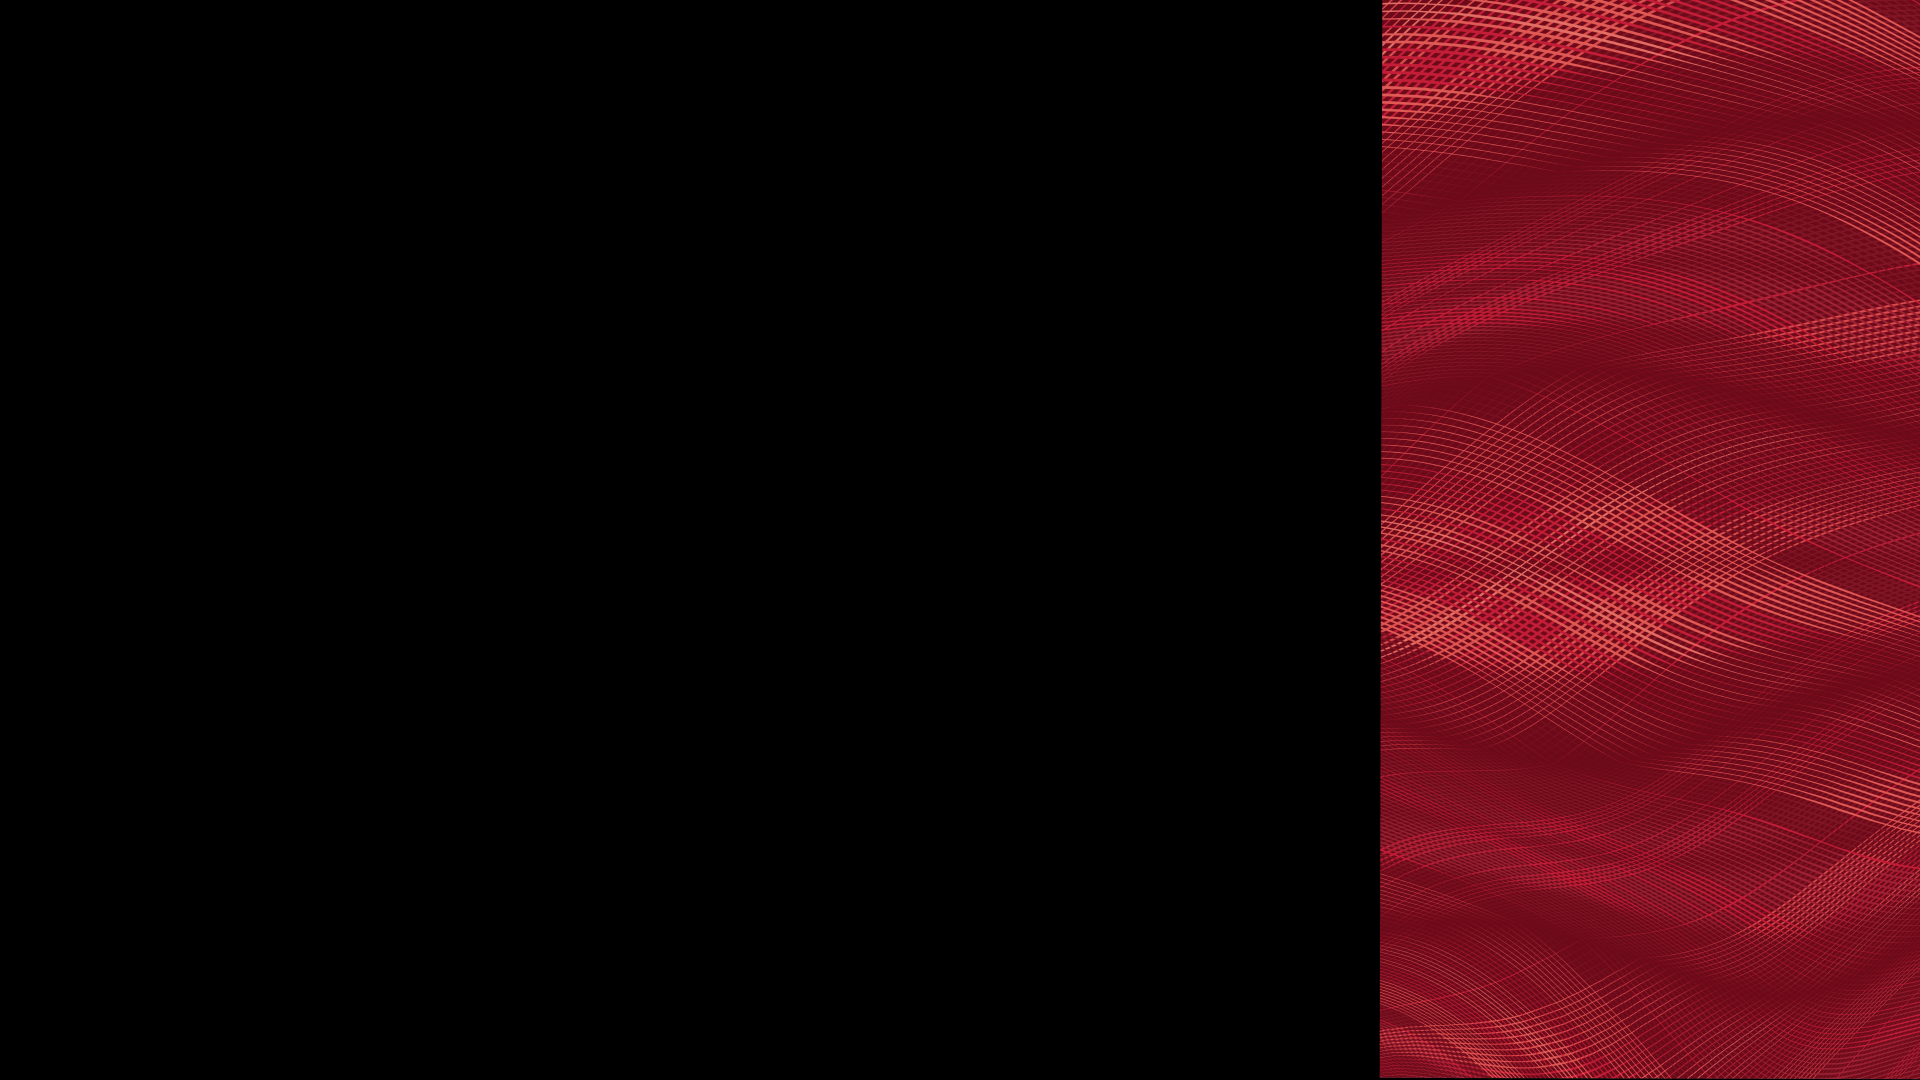
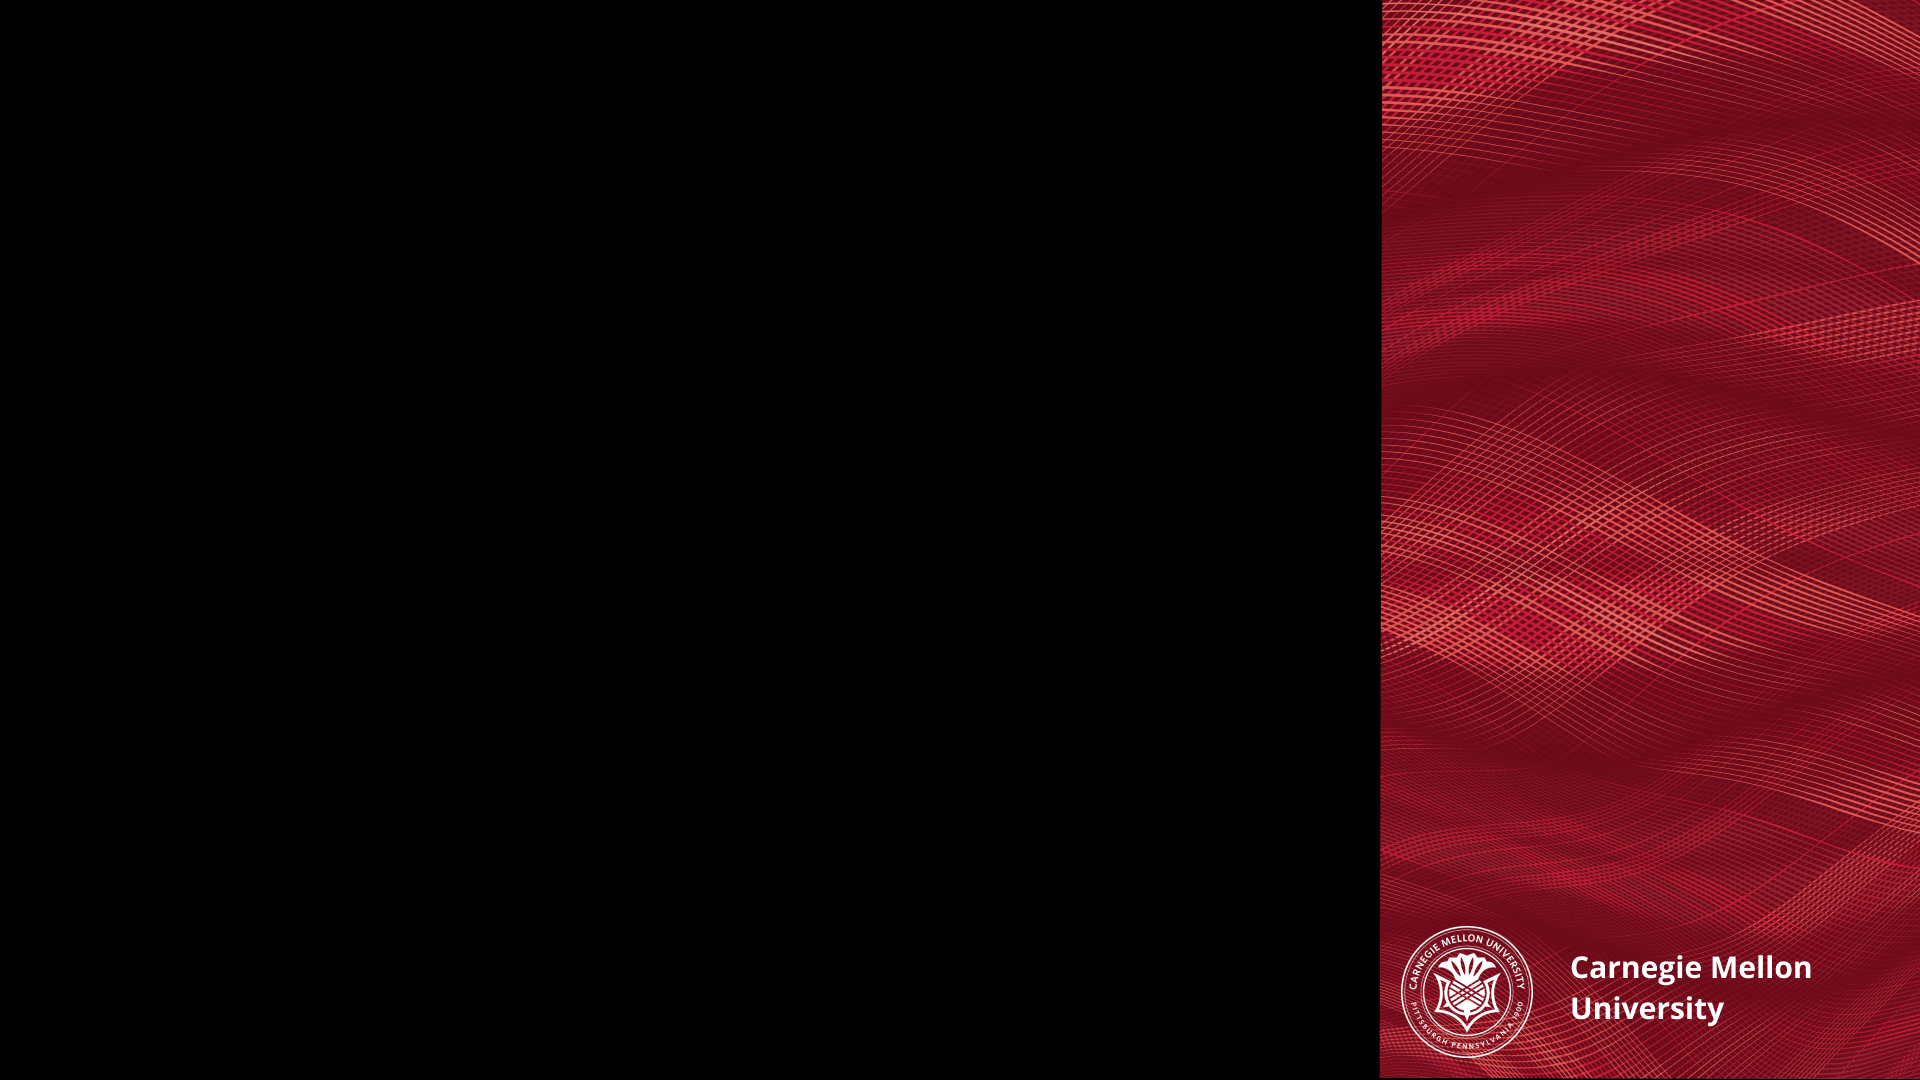
feat: caption variant, and stop drawing a wordmark the frame now prints
The replacement pip-frame.png keeps the same regions (slide x 0..1379, rail
x 1380..1919) but now has the CMU seal and wordmark printed into the rail at
y 926..1057. rail_overlay was still drawing its own serif wordmark in that
corner, so the two stacked on top of each other. The drawn layer now stops at
the term (y 654) and leaves everything below to the art.

render_caption_variant.py is the professional look with the question shown as a
YouTube-style caption over the running lecture instead of a full-frame card,
and with no sting. Measured across the 645.6s question: -91.0 dB (true silence,
the student's own muted audio) against -32.0 dB in the card version.

The caption sits over the slide region only -- centring on the full frame would
push it under the branded rail, which is opaque art. The slab is 78% alpha:
dark enough to carry white type over a bright slide, light enough that the
slide still reads. Fully opaque would just be a card again.

Changed region(s): [[0.7188, 0.8556, 0.9375, 0.9778]]

diff --git a/scripts/render_caption_variant.py b/scripts/render_caption_variant.py
@@ -1,0 +1,170 @@
+"""Professional variant: YouTube-style caption instead of a full-frame card.
+
+    python scripts/render_caption_variant.py
+
+Writes data/<lecture>/<key>-professional-captions.mp4.
+
+Differences from the card version, both requested:
+  * a student question appears as a caption overlaid on the running lecture,
+    so the slide and the instructor stay visible through it
+  * no card sting -- the lecture's own (student-muted) audio is untouched
+
+Reuses the cached layout segments from .full-work and re-renders only the
+question spans, since only those change. Type is Open Sans, matching the cards.
+"""
+
+import argparse
+import json
+import os
+import subprocess
+import sys
+
+from PIL import Image, ImageDraw
+
+sys.path.insert(0, os.path.dirname(os.path.abspath(__file__)))
+sys.path.insert(0, os.path.dirname(os.path.dirname(os.path.abspath(__file__))))
+
+from render_full_lecture import (  # noqa: E402
+    plan, layout_segment, probe_dur, run, encoder, vcodec,
+)
+from render_demo import (  # noqa: E402
+    FPS, ASSETS, build_intro_pro, rail_overlay, SLIDE_W, SLIDE_Y, SLIDE_H,
+    CAM_X, CAM_Y, CAM_W, CAM_H,
+)
+from render_theme_samples import THEMES, ROOT, W, H, font, fit_block, wrap  # noqa: E402
+
+# The caption sits over the SLIDE region only. Centring it on the full frame
+# would push it under the branded rail, which is opaque art.
+CAP_CX = SLIDE_W // 2
+CAP_MAX_W = 1120
+CAP_PAD_X, CAP_PAD_Y = 34, 22
+CAP_SIZE = 46
+CAP_LEADING = 1.34
+CAP_CY = H // 2            # "in the middle", as asked
+
+
+def caption_png(text, out_path):
+    """A YouTube-style caption: translucent slab, white Open Sans, centred.
+
+    Drawn as RGBA and composited over the running video, so unlike the card it
+    never replaces the picture.
+    """
+    lay = Image.new("RGBA", (W, H), (0, 0, 0, 0))
+    d = ImageDraw.Draw(lay)
+    fnt = font("SemiBold", CAP_SIZE)
+    lines = wrap(d, text, fnt, CAP_MAX_W)
+    lead = int(CAP_SIZE * CAP_LEADING)
+
+    tw = max(d.textlength(ln, font=fnt) for ln in lines)
+    th = len(lines) * lead
+    x0 = CAP_CX - tw / 2 - CAP_PAD_X
+    x1 = CAP_CX + tw / 2 + CAP_PAD_X
+    y0 = CAP_CY - th / 2 - CAP_PAD_Y
+    y1 = CAP_CY + th / 2 + CAP_PAD_Y
+
+    # 0.78 alpha: dark enough to carry white type over a bright slide, light
+    # enough that the slide underneath still reads. Fully opaque would just be
+    # a card again.
+    d.rounded_rectangle([x0, y0, x1, y1], radius=14, fill=(0, 0, 0, 199))
+
+    y = CAP_CY - th / 2
+    for ln in lines:
+        lw = d.textlength(ln, font=fnt)
+        d.text((CAP_CX - lw / 2, y), ln, font=fnt, fill=(255, 255, 255, 255))
+        y += lead
+    lay.save(out_path)
+    return out_path
+
+
+def caption_segment(out, start, dur, text, lecture_dir, work, backdrop_png):
+    """A layout segment with the caption faded in over it. No sting."""
+    screen = os.path.join(lecture_dir, "screen_sync.mp4")
+    cam = os.path.join(lecture_dir, "camera_muted_anon_tracked.mp4")
+    cap = caption_png(text, os.path.join(work, f"cap-{int(start)}.png"))
+    fade = min(0.35, dur / 5)
+
+    fc = (
+        f"[0:v]scale={SLIDE_W}:{SLIDE_H},setsar=1,fps={FPS}[sl];"
+        f"[1:v]scale={CAM_W}:{CAM_H},setsar=1,fps={FPS}[cm];"
+        f"[2:v][sl]overlay=0:{SLIDE_Y}:shortest=1[a];"
+        f"[a][cm]overlay={CAM_X}:{CAM_Y}[b];"
+        # -loop 1 on the caption input: a still image is one frame at t=0, so a
+        # fade would otherwise never evaluate and the overlay stay invisible.
+        f"[3:v]format=rgba,fade=t=in:st=0:d={fade:.2f}:alpha=1,"
+        f"fade=t=out:st={dur - fade:.2f}:d={fade:.2f}:alpha=1[cap];"
+        f"[b][cap]overlay=0:0:format=auto,format=yuv420p[v]"
+    )
+    run(["ffmpeg", "-y", "-v", "error",
+         "-ss", f"{start:.3f}", "-t", f"{dur:.3f}", "-i", screen,
+         "-ss", f"{start:.3f}", "-t", f"{dur:.3f}", "-i", cam,
+         "-loop", "1", "-t", f"{dur:.3f}", "-i", backdrop_png,
+         "-loop", "1", "-framerate", str(FPS), "-t", f"{dur:.3f}", "-i", cap,
+         "-filter_complex", fc, "-map", "[v]", "-map", "1:a",
+         *vcodec(), "-c:a", "aac", "-ar", "48000", "-ac", "2",
+         "-t", f"{dur:.3f}", out])
+    return out
+
+
+def main():
+    ap = argparse.ArgumentParser()
+    ap.add_argument("--lecture-dir", default="data/15210-lecture12")
+    ap.add_argument("--encoder", default="libx264")
+    args = ap.parse_args()
+    encoder(args.encoder)
+
+    work = os.path.join(ROOT, ".full-work")
+    os.makedirs(work, exist_ok=True)
+    LD = args.lecture_dir
+    dur = probe_dur(os.path.join(LD, "camera_muted_anon_tracked.mp4"))
+    qs = [{"start": s["start"], "end": s["end"], "text": s["text"].strip()}
+          for s in json.load(open(os.path.join(LD, "transcript_classified.json")))
+          if s.get("is_student_question")]
+    pieces = plan(qs, dur)
+
+    bd = Image.open(os.path.join(ASSETS, "professional", "pip-frame.png")).convert("RGBA")
+    bd = Image.alpha_composite(bd, rail_overlay("professional", THEMES["professional"]))
+    backdrop = os.path.join(work, "backdrop.png")
+    bd.convert("RGB").save(backdrop)
+
+    outs = []
+    for i, p in enumerate(pieces):
+        cached = os.path.join(work, f"v2_{i:03d}.mp4")
+        o = os.path.join(work, f"cap_{i:03d}.mp4")
+        if p["kind"] == "layout" and os.path.exists(cached):
+            outs.append(cached)                      # unchanged, reuse
+            print(f"  seg {i+1}/{len(pieces)} layout  {p['dur']:7.1f}s  (cached)",
+                  flush=True)
+        elif p["kind"] == "layout":
+            layout_segment("professional", o, p["start"], p["dur"], LD, backdrop)
+            outs.append(o)
+            print(f"  seg {i+1}/{len(pieces)} layout  {p['dur']:7.1f}s", flush=True)
+        else:
+            caption_segment(o, p["start"], p["dur"], p["q"]["text"], LD, work,
+                            backdrop)
+            outs.append(o)
+            print(f"  seg {i+1}/{len(pieces)} caption {p['dur']:7.1f}s  "
+                  f"\"{p['q']['text'][:48]}\"", flush=True)
+
+    lst = os.path.join(work, "body_cap.txt")
+    with open(lst, "w") as f:
+        for o in outs:
+            f.write(f"file '{os.path.abspath(o)}'\n")
+    body = os.path.join(work, "body_cap.mp4")
+    run(["ffmpeg", "-y", "-v", "error", "-f", "concat", "-safe", "0",
+         "-i", lst, "-c", "copy", body])
+
+    intro, _ = build_intro_pro(os.path.join(work, "intro-professional.mp4"),
+                               6.0, work)
+    fl = os.path.join(work, "final-cap.txt")
+    with open(fl, "w") as f:
+        f.write(f"file '{os.path.abspath(intro)}'\nfile '{os.path.abspath(body)}'\n")
+    key = os.path.basename(os.path.normpath(LD))
+    out = os.path.join(LD, f"{key}-professional-captions.mp4")
+    run(["ffmpeg", "-y", "-v", "error", "-f", "concat", "-safe", "0",
+         "-i", fl, "-c", "copy", "-movflags", "+faststart", out])
+    print(f"\n{out}  {probe_dur(out)/60:.2f} min, "
+          f"{os.path.getsize(out)/1e6:.0f} MB")
+
+
+if __name__ == "__main__":
+    main()

diff --git a/scripts/render_demo.py b/scripts/render_demo.py
@@ -132,9 +132,9 @@ def rail_overlay(name, t):
         y += 44
     d.text((CAM_X, y + 6), TERM, font=font("Regular", 32),
            fill=(255, 235, 238, 255))
-    d.text((CAM_X, H - 110), "Carnegie Mellon", font=serif(36),
-           fill=(255, 255, 255, 255))
-    d.text((CAM_X, H - 66), "University", font=serif(36), fill=(255, 255, 255, 255))
+    # The CMU seal and wordmark are PRINTED INTO pip-frame.png now, occupying
+    # y 926..1057 of the rail. Drawing our own would double them up, so this
+    # layer stops at the term and leaves everything below y=926 to the art.
     return lay
 
 
